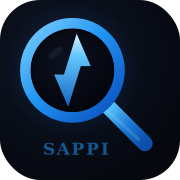
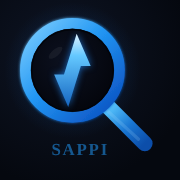
App-icoon zonder transparante hoeken: geen witte kader meer op Samsung (v53)
Samsung One UI zet iconen met transparante randen op een witte plaat
(splash en startscherm). De 'any'-PNG's (192/512) en apple-touch-icon
zijn nu volledig dekkend en vierkant; de launcher rondt zelf af.
APP_VERSION -> v53.

Claude-Session: https://claude.ai/code/session_01FsSx8eRfn3NBoZsdD967Ct

diff --git a/version.js b/version.js
@@ -4,4 +4,4 @@
 // Bump dit bij elke release: nieuw onderwerp = volgend heel nummer (v48),
 // vervolgaanpassing aan hetzelfde onderwerp = subnummer (v48.1, v48.2).
 // Zie CLAUDE.md "Versienummering".
-const APP_VERSION = "v52";
+const APP_VERSION = "v53";
